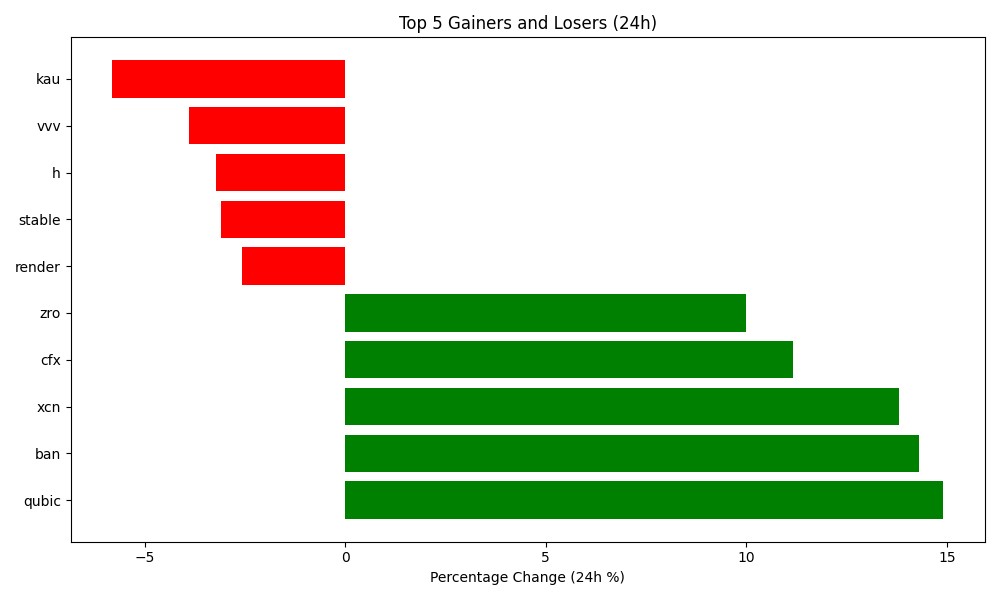
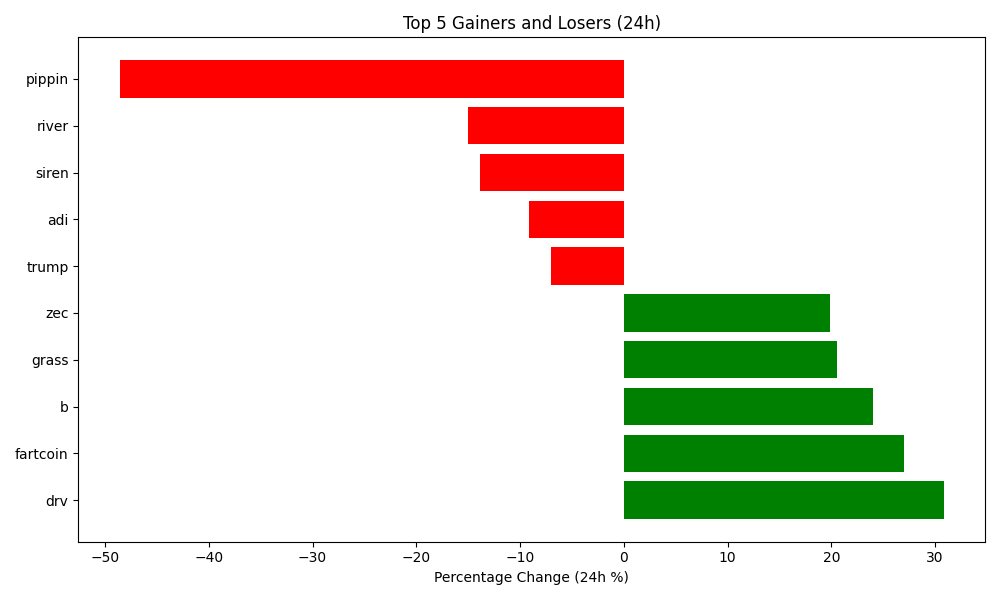
Auto-update crypto data and plot

diff --git a/README.md b/README.md
@@ -4,7 +4,7 @@ Author: Hitesh Agrawal
 This repository automatically tracks the top 5 gaining, top 5 losing, and top 5 highest volume cryptocurrencies in the last 24 hours using the CoinGecko API, Python, Matplotlib, and GitHub Actions updates the below content everyday at midnight.
 
 <!-- START_DYNAMIC_CONTENT -->
-Last updated: 2026-03-16 01:48 UTC
+Last updated: 2026-03-17 01:26 UTC
 
 ![Crypto Movers Plot](crypto_movers_plot.png)
 
@@ -12,33 +12,33 @@ Last updated: 2026-03-16 01:48 UTC
 
 | Rank | Coin | Price Change (24h %) | Volume (USD) | Current Price (USD) |
 | :--: | :--: | :------------------: | :----------: | :-----------------: |
-| 1 | qubic | 14.91% | $3,553,082 | $0.0000 |
-| 2 | ban | 14.30% | $10,559,192 | $0.1342 |
-| 3 | xcn | 13.80% | $43,097,238 | $0.0063 |
-| 4 | cfx | 11.17% | $63,675,126 | $0.0624 |
-| 5 | zro | 9.99% | $80,769,726 | $2.1600 |
+| 1 | drv | 30.84% | $1,455,950 | $0.1197 |
+| 2 | fartcoin | 27.00% | $100,769,896 | $0.2114 |
+| 3 | b | 24.02% | $16,673,573 | $0.2243 |
+| 4 | grass | 20.55% | $22,826,754 | $0.4507 |
+| 5 | zec | 19.88% | $632,162,906 | $275.7100 |
 
 
 **👇 Top 5 Losers (24h)**
 
 | Rank | Coin | Price Change (24h %) | Volume (USD) | Current Price (USD) |
 | :--: | :--: | :------------------: | :----------: | :-----------------: |
-| 1 | kau | -5.81% | $72,205 | $160.9700 |
-| 2 | vvv | -3.90% | $12,646,269 | $6.1800 |
-| 3 | h | -3.22% | $13,239,849 | $0.1234 |
-| 4 | stable | -3.09% | $16,040,900 | $0.0281 |
-| 5 | render | -2.58% | $114,053,688 | $1.8800 |
+| 1 | pippin | -48.60% | $57,326,918 | $0.1908 |
+| 2 | river | -15.00% | $58,341,679 | $19.3600 |
+| 3 | siren | -13.88% | $27,508,426 | $0.5194 |
+| 4 | adi | -9.14% | $3,222,699 | $3.4100 |
+| 5 | trump | -6.99% | $439,300,344 | $3.8700 |
 
 
 **💎 Top 5 by Trade Volume (24h)**
 
 | Rank | Coin | Price Change (24h %) | Volume (USD) | Current Price (USD) |
 | :--: | :--: | :------------------: | :----------: | :-----------------: |
-| 1 | usdt | -0.00% | $51,455,268,299 | $1.0000 |
-| 2 | btc | 2.38% | $29,956,572,371 | $72,621.0000 |
-| 3 | eth | 4.45% | $16,303,936,776 | $2,179.8600 |
-| 4 | sol | 4.68% | $3,434,368,011 | $91.7500 |
-| 5 | usdc | 0.00% | $3,377,231,530 | $0.9999 |
+| 1 | usdt | -0.01% | $110,552,182,145 | $1.0000 |
+| 2 | btc | 4.29% | $60,665,032,741 | $75,777.0000 |
+| 3 | eth | 8.34% | $40,308,045,486 | $2,362.2500 |
+| 4 | sol | 3.86% | $6,669,509,601 | $95.5400 |
+| 5 | usdc | 0.00% | $5,972,012,078 | $1.0000 |
 
 
 <!-- END_DYNAMIC_CONTENT -->
